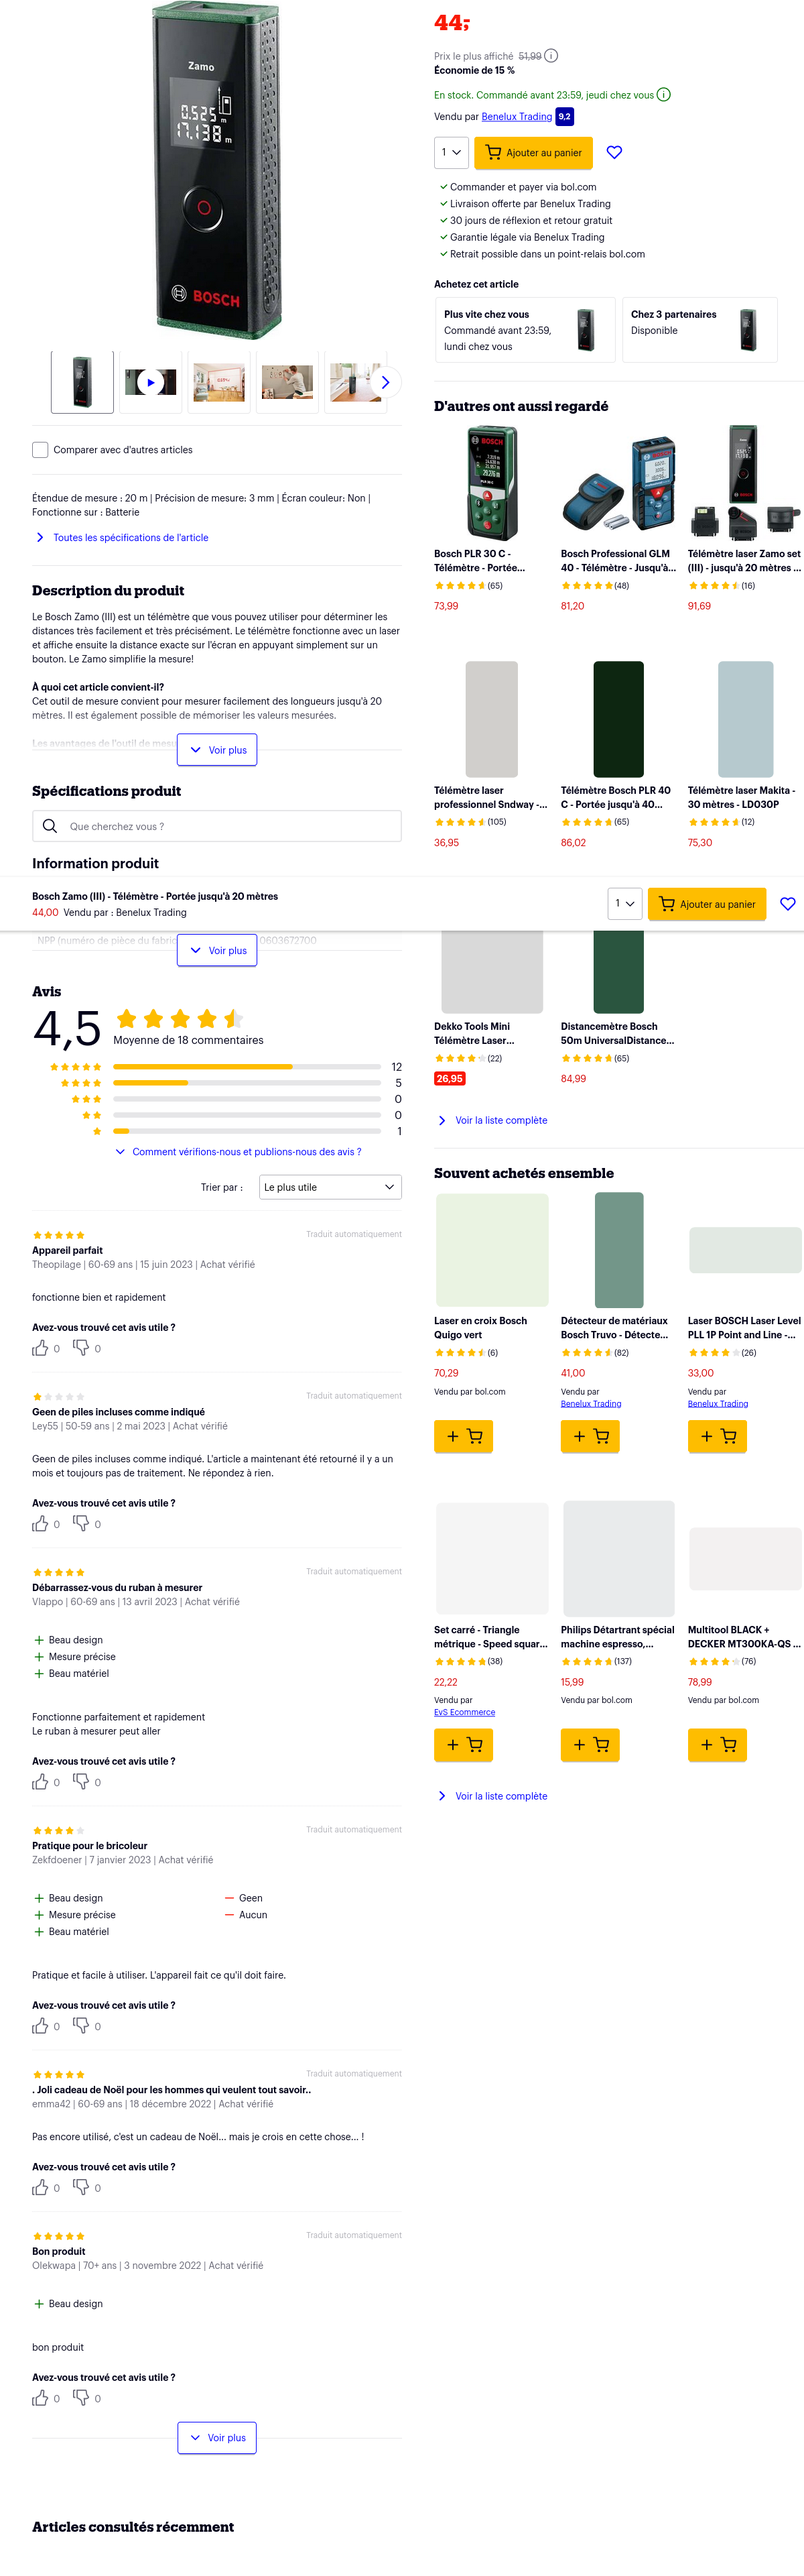
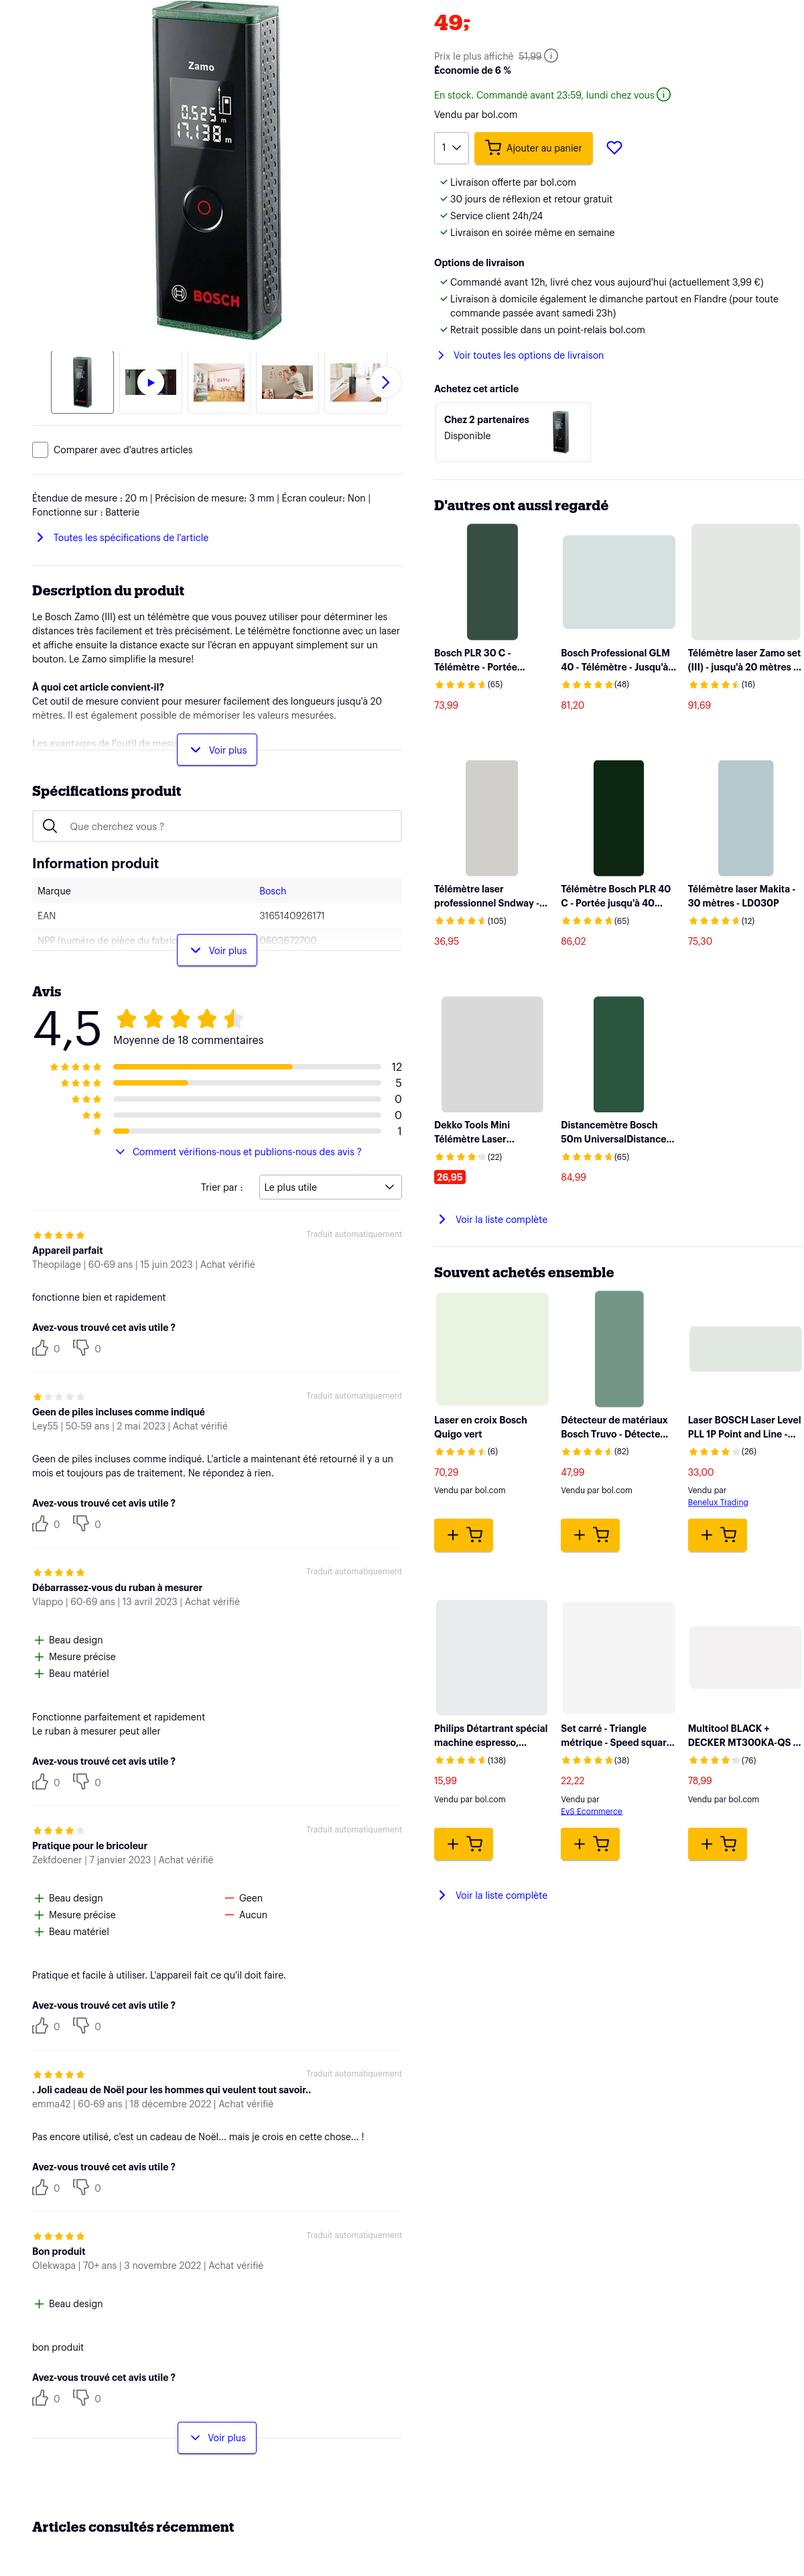
Latest scraping prices: Sat Aug 19 12:54:32 UTC 2023

diff --git a/scrapes/prices/bol-bosch-zamo.md b/scrapes/prices/bol-bosch-zamo.md
@@ -1,4 +1,4 @@
-44 <sup>-</sup>
+49 <sup>-</sup>
 
 ![](bol-bosch-zamo.png)
 
